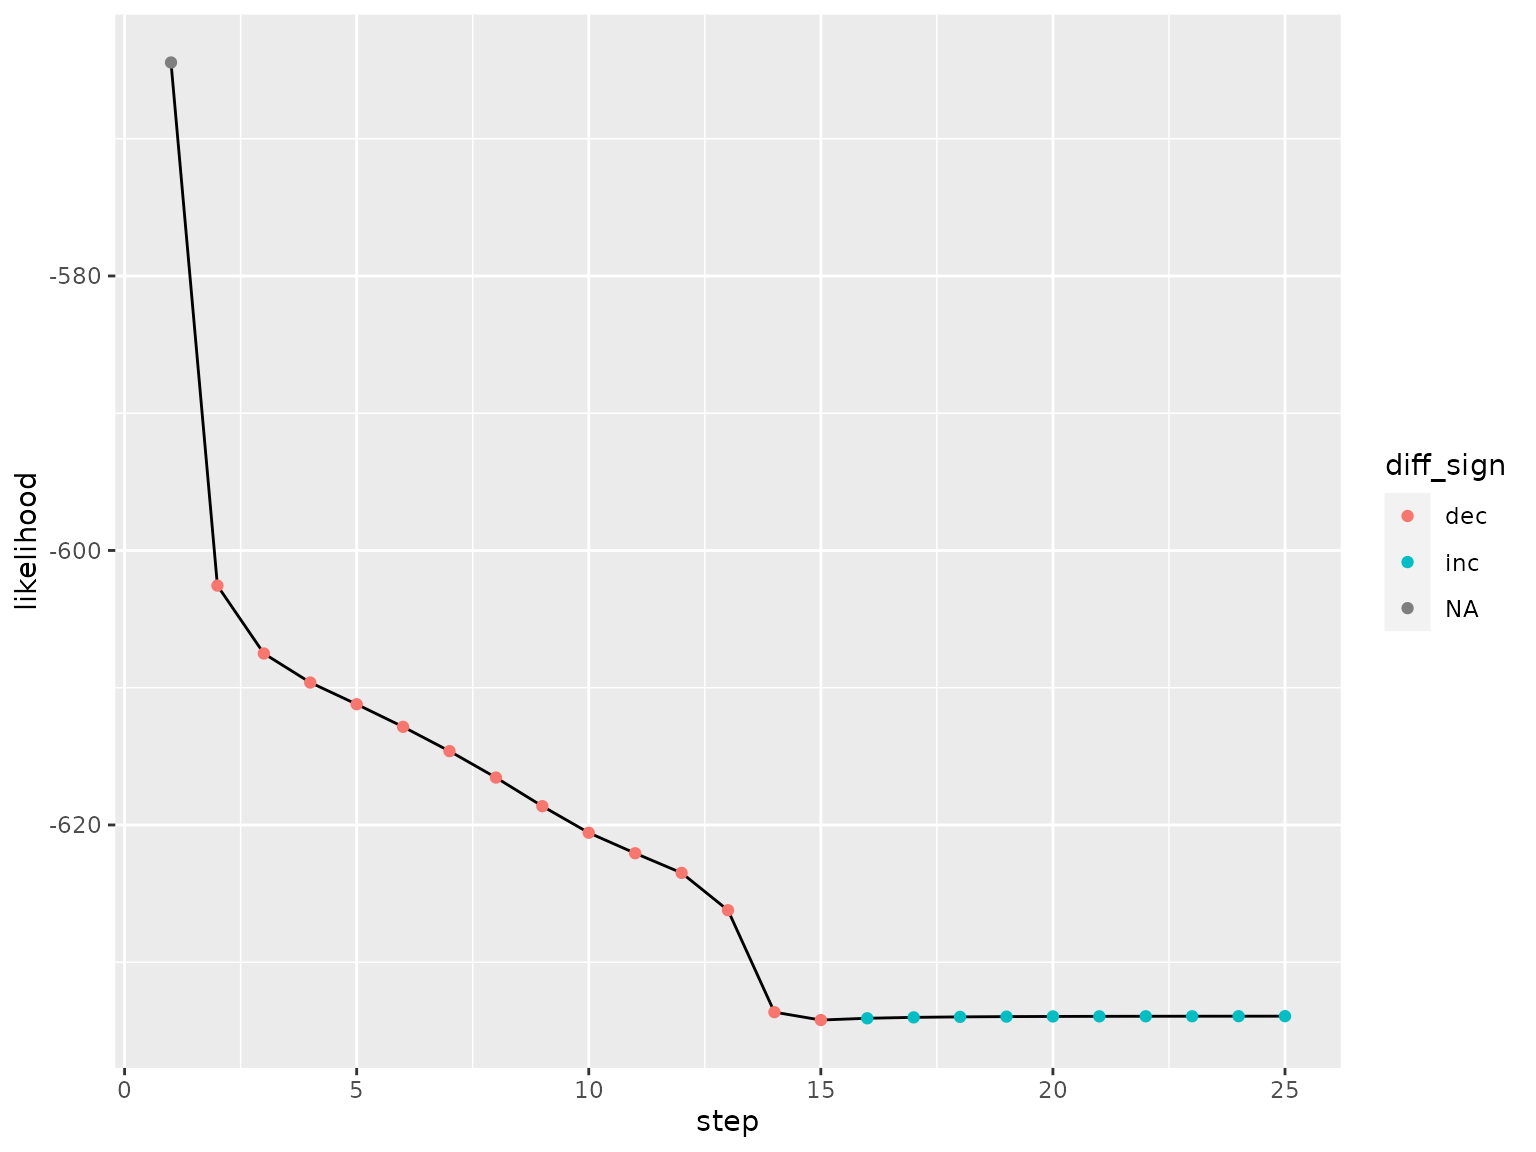
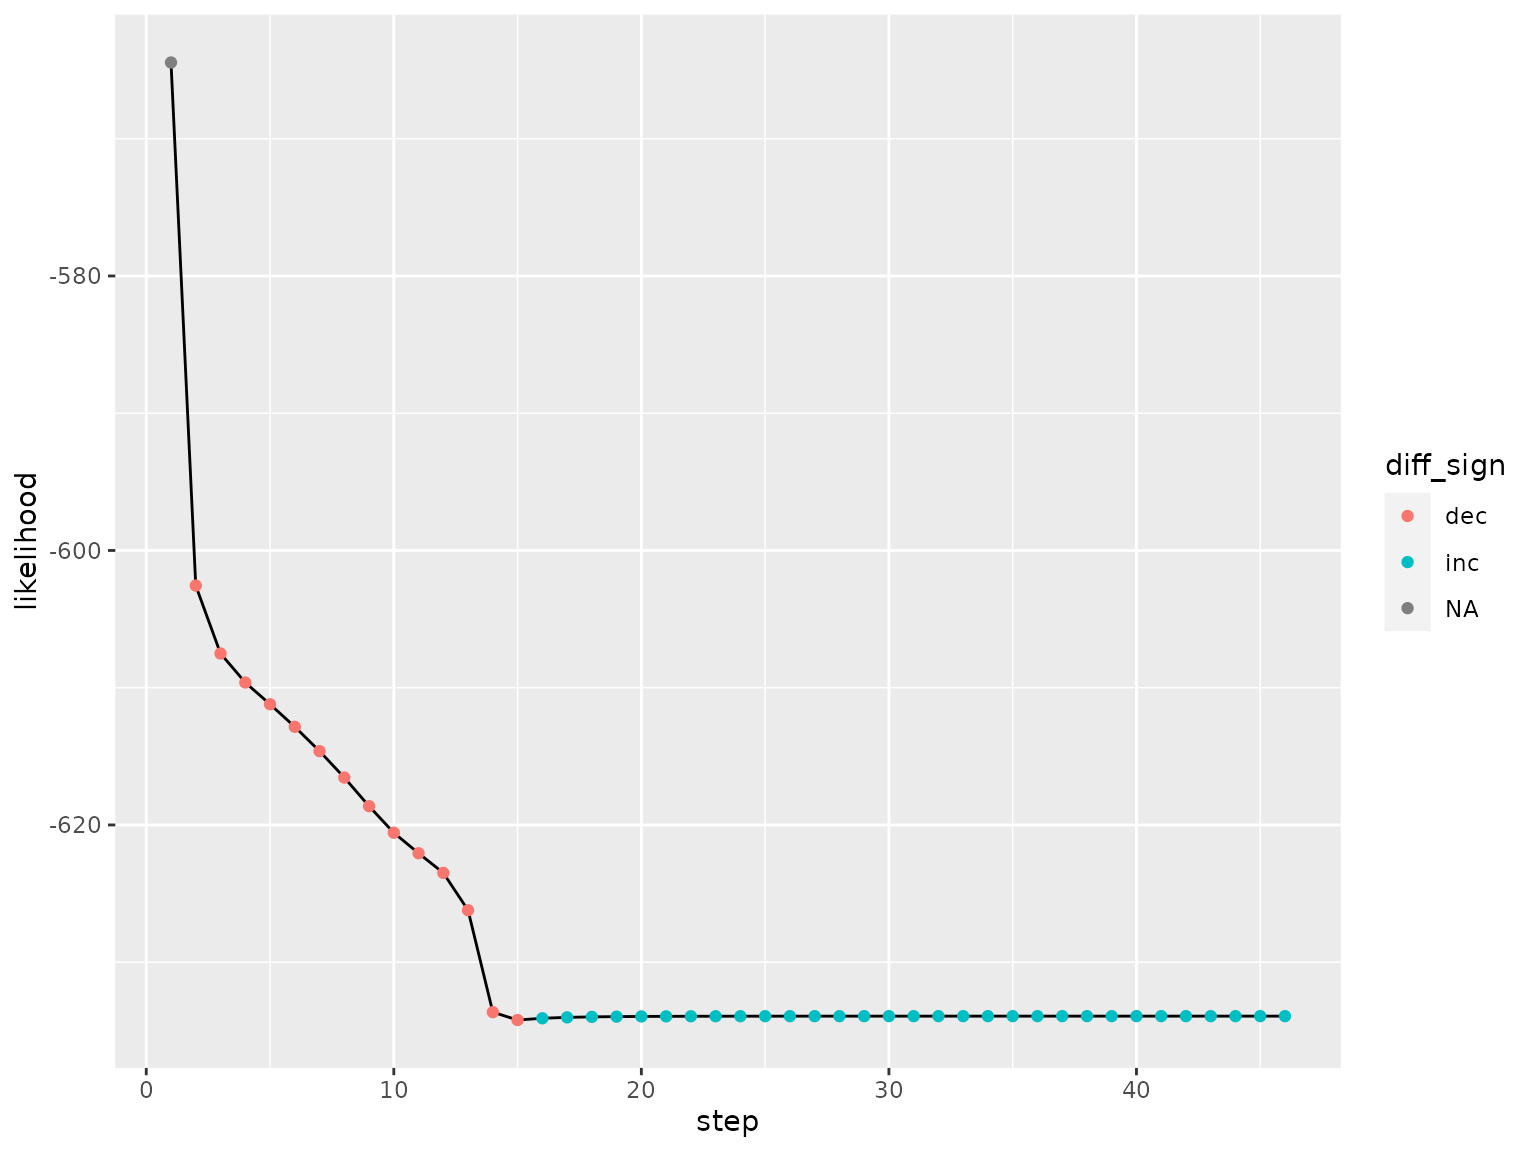
Deploying to gh-pages from @ ajmichaelucd/mic.sim@09627e6839fdf3ca706c89eb0b62f13c182a53ca 🚀

diff --git a/reference/EM_algorithm_safety_surv.html b/reference/EM_algorithm_safety_surv.html
@@ -1,5 +1,5 @@
 <!DOCTYPE html>
-<!-- Generated by pkgdown: do not edit by hand --><html lang="en"><head><meta http-equiv="Content-Type" content="text/html; charset=UTF-8"><meta charset="utf-8"><meta http-equiv="X-UA-Compatible" content="IE=edge"><meta name="viewport" content="width=device-width, initial-scale=1, shrink-to-fit=no"><meta name="description" content="fit_model_pi"><title>fit_model_pi — fit_model_pi • mic.sim</title><script src="../deps/jquery-3.6.0/jquery-3.6.0.min.js"></script><meta name="viewport" content="width=device-width, initial-scale=1, shrink-to-fit=no"><link href="../deps/bootstrap-5.3.1/bootstrap.min.css" rel="stylesheet"><script src="../deps/bootstrap-5.3.1/bootstrap.bundle.min.js"></script><!-- Font Awesome icons --><link rel="stylesheet" href="https://cdnjs.cloudflare.com/ajax/libs/font-awesome/5.12.1/css/all.min.css" integrity="sha256-mmgLkCYLUQbXn0B1SRqzHar6dCnv9oZFPEC1g1cwlkk=" crossorigin="anonymous"><link rel="stylesheet" href="https://cdnjs.cloudflare.com/ajax/libs/font-awesome/5.12.1/css/v4-shims.min.css" integrity="sha256-wZjR52fzng1pJHwx4aV2AO3yyTOXrcDW7jBpJtTwVxw=" crossorigin="anonymous"><!-- bootstrap-toc --><script src="https://cdn.jsdelivr.net/gh/afeld/bootstrap-toc@v1.0.1/dist/bootstrap-toc.min.js" integrity="sha256-4veVQbu7//Lk5TSmc7YV48MxtMy98e26cf5MrgZYnwo=" crossorigin="anonymous"></script><!-- headroom.js --><script src="https://cdnjs.cloudflare.com/ajax/libs/headroom/0.11.0/headroom.min.js" integrity="sha256-AsUX4SJE1+yuDu5+mAVzJbuYNPHj/WroHuZ8Ir/CkE0=" crossorigin="anonymous"></script><script src="https://cdnjs.cloudflare.com/ajax/libs/headroom/0.11.0/jQuery.headroom.min.js" integrity="sha256-ZX/yNShbjqsohH1k95liqY9Gd8uOiE1S4vZc+9KQ1K4=" crossorigin="anonymous"></script><!-- clipboard.js --><script src="https://cdnjs.cloudflare.com/ajax/libs/clipboard.js/2.0.6/clipboard.min.js" integrity="sha256-inc5kl9MA1hkeYUt+EC3BhlIgyp/2jDIyBLS6k3UxPI=" crossorigin="anonymous"></script><!-- search --><script src="https://cdnjs.cloudflare.com/ajax/libs/fuse.js/6.4.6/fuse.js" integrity="sha512-zv6Ywkjyktsohkbp9bb45V6tEMoWhzFzXis+LrMehmJZZSys19Yxf1dopHx7WzIKxr5tK2dVcYmaCk2uqdjF4A==" crossorigin="anonymous"></script><script src="https://cdnjs.cloudflare.com/ajax/libs/autocomplete.js/0.38.0/autocomplete.jquery.min.js" integrity="sha512-GU9ayf+66Xx2TmpxqJpliWbT5PiGYxpaG8rfnBEk1LL8l1KGkRShhngwdXK1UgqhAzWpZHSiYPc09/NwDQIGyg==" crossorigin="anonymous"></script><script src="https://cdnjs.cloudflare.com/ajax/libs/mark.js/8.11.1/mark.min.js" integrity="sha512-5CYOlHXGh6QpOFA/TeTylKLWfB3ftPsde7AnmhuitiTX4K5SqCLBeKro6sPS8ilsz1Q4NRx3v8Ko2IBiszzdww==" crossorigin="anonymous"></script><!-- pkgdown --><script src="../pkgdown.js"></script><meta property="og:title" content="fit_model_pi — fit_model_pi"><meta property="og:description" content="fit_model_pi"><!-- mathjax --><script src="https://cdnjs.cloudflare.com/ajax/libs/mathjax/2.7.5/MathJax.js" integrity="sha256-nvJJv9wWKEm88qvoQl9ekL2J+k/RWIsaSScxxlsrv8k=" crossorigin="anonymous"></script><script src="https://cdnjs.cloudflare.com/ajax/libs/mathjax/2.7.5/config/TeX-AMS-MML_HTMLorMML.js" integrity="sha256-84DKXVJXs0/F8OTMzX4UR909+jtl4G7SPypPavF+GfA=" crossorigin="anonymous"></script><!--[if lt IE 9]>
+<!-- Generated by pkgdown: do not edit by hand --><html lang="en"><head><meta http-equiv="Content-Type" content="text/html; charset=UTF-8"><meta charset="utf-8"><meta http-equiv="X-UA-Compatible" content="IE=edge"><meta name="viewport" content="width=device-width, initial-scale=1, shrink-to-fit=no"><meta name="description" content="Title"><title>Title — EM_algorithm_safety_surv • mic.sim</title><script src="../deps/jquery-3.6.0/jquery-3.6.0.min.js"></script><meta name="viewport" content="width=device-width, initial-scale=1, shrink-to-fit=no"><link href="../deps/bootstrap-5.3.1/bootstrap.min.css" rel="stylesheet"><script src="../deps/bootstrap-5.3.1/bootstrap.bundle.min.js"></script><!-- Font Awesome icons --><link rel="stylesheet" href="https://cdnjs.cloudflare.com/ajax/libs/font-awesome/5.12.1/css/all.min.css" integrity="sha256-mmgLkCYLUQbXn0B1SRqzHar6dCnv9oZFPEC1g1cwlkk=" crossorigin="anonymous"><link rel="stylesheet" href="https://cdnjs.cloudflare.com/ajax/libs/font-awesome/5.12.1/css/v4-shims.min.css" integrity="sha256-wZjR52fzng1pJHwx4aV2AO3yyTOXrcDW7jBpJtTwVxw=" crossorigin="anonymous"><!-- bootstrap-toc --><script src="https://cdn.jsdelivr.net/gh/afeld/bootstrap-toc@v1.0.1/dist/bootstrap-toc.min.js" integrity="sha256-4veVQbu7//Lk5TSmc7YV48MxtMy98e26cf5MrgZYnwo=" crossorigin="anonymous"></script><!-- headroom.js --><script src="https://cdnjs.cloudflare.com/ajax/libs/headroom/0.11.0/headroom.min.js" integrity="sha256-AsUX4SJE1+yuDu5+mAVzJbuYNPHj/WroHuZ8Ir/CkE0=" crossorigin="anonymous"></script><script src="https://cdnjs.cloudflare.com/ajax/libs/headroom/0.11.0/jQuery.headroom.min.js" integrity="sha256-ZX/yNShbjqsohH1k95liqY9Gd8uOiE1S4vZc+9KQ1K4=" crossorigin="anonymous"></script><!-- clipboard.js --><script src="https://cdnjs.cloudflare.com/ajax/libs/clipboard.js/2.0.6/clipboard.min.js" integrity="sha256-inc5kl9MA1hkeYUt+EC3BhlIgyp/2jDIyBLS6k3UxPI=" crossorigin="anonymous"></script><!-- search --><script src="https://cdnjs.cloudflare.com/ajax/libs/fuse.js/6.4.6/fuse.js" integrity="sha512-zv6Ywkjyktsohkbp9bb45V6tEMoWhzFzXis+LrMehmJZZSys19Yxf1dopHx7WzIKxr5tK2dVcYmaCk2uqdjF4A==" crossorigin="anonymous"></script><script src="https://cdnjs.cloudflare.com/ajax/libs/autocomplete.js/0.38.0/autocomplete.jquery.min.js" integrity="sha512-GU9ayf+66Xx2TmpxqJpliWbT5PiGYxpaG8rfnBEk1LL8l1KGkRShhngwdXK1UgqhAzWpZHSiYPc09/NwDQIGyg==" crossorigin="anonymous"></script><script src="https://cdnjs.cloudflare.com/ajax/libs/mark.js/8.11.1/mark.min.js" integrity="sha512-5CYOlHXGh6QpOFA/TeTylKLWfB3ftPsde7AnmhuitiTX4K5SqCLBeKro6sPS8ilsz1Q4NRx3v8Ko2IBiszzdww==" crossorigin="anonymous"></script><!-- pkgdown --><script src="../pkgdown.js"></script><meta property="og:title" content="Title — EM_algorithm_safety_surv"><meta property="og:description" content="Title"><!-- mathjax --><script src="https://cdnjs.cloudflare.com/ajax/libs/mathjax/2.7.5/MathJax.js" integrity="sha256-nvJJv9wWKEm88qvoQl9ekL2J+k/RWIsaSScxxlsrv8k=" crossorigin="anonymous"></script><script src="https://cdnjs.cloudflare.com/ajax/libs/mathjax/2.7.5/config/TeX-AMS-MML_HTMLorMML.js" integrity="sha256-84DKXVJXs0/F8OTMzX4UR909+jtl4G7SPypPavF+GfA=" crossorigin="anonymous"></script><!--[if lt IE 9]>
 <script src="https://oss.maxcdn.com/html5shiv/3.7.3/html5shiv.min.js"></script>
 <script src="https://oss.maxcdn.com/respond/1.4.2/respond.min.js"></script>
 <![endif]--></head><body>
@@ -43,22 +43,23 @@
 </nav><div class="container template-reference-topic">
 <div class="row">
   <main id="main" class="col-md-9"><div class="page-header">
-      <img src="" class="logo" alt=""><h1>fit_model_pi</h1>
-      <small class="dont-index">Source: <a href="https://github.com/ajmichaelucd/mic.sim/blob/HEAD/R/fit_model_pi.R" class="external-link"><code>R/fit_model_pi.R</code></a></small>
-      <div class="d-none name"><code>fit_model_pi.Rd</code></div>
+      <img src="" class="logo" alt=""><h1>Title</h1>
+      <small class="dont-index">Source: <a href="https://github.com/ajmichaelucd/mic.sim/blob/HEAD/R/EM_algorithm_safety_surv.R" class="external-link"><code>R/EM_algorithm_safety_surv.R</code></a></small>
+      <div class="d-none name"><code>EM_algorithm_safety_surv.Rd</code></div>
     </div>
 
     <div class="ref-description section level2">
-    <p>fit_model_pi</p>
+    <p>Title</p>
     </div>
 
     <div class="section level2">
     <h2 id="ref-usage">Usage<a class="anchor" aria-label="anchor" href="#ref-usage"></a></h2>
-    <div class="sourceCode"><pre class="sourceCode r"><code><span><span class="fu">fit_model_pi</span><span class="op">(</span></span>
-<span>  <span class="va">visible_data</span>,</span>
+    <div class="sourceCode"><pre class="sourceCode r"><code><span><span class="fu">EM_algorithm_safety_surv</span><span class="op">(</span></span>
+<span>  visible_data <span class="op">=</span> <span class="fu"><a href="prep_sim_data_for_em.html">prep_sim_data_for_em</a></span><span class="op">(</span><span class="op">)</span>,</span>
 <span>  mu_formula <span class="op">=</span> <span class="fu">Surv</span><span class="op">(</span>time <span class="op">=</span> <span class="va">left_bound</span>, time2 <span class="op">=</span> <span class="va">right_bound</span>, type <span class="op">=</span> <span class="st">"interval2"</span><span class="op">)</span> <span class="op">~</span></span>
-<span>    <span class="fu">pspline</span><span class="op">(</span><span class="va">t</span>, df <span class="op">=</span> <span class="fl">0</span>, caic <span class="op">=</span> <span class="cn">TRUE</span><span class="op">)</span>,</span>
+<span>    <span class="fu">pspline</span><span class="op">(</span><span class="va">t</span>, df <span class="op">=</span> <span class="fl">0</span>, calc <span class="op">=</span> <span class="cn">TRUE</span><span class="op">)</span>,</span>
 <span>  pi_formula <span class="op">=</span> <span class="va">c</span> <span class="op">==</span> <span class="st">"2"</span> <span class="op">~</span> <span class="fu">s</span><span class="op">(</span><span class="va">t</span><span class="op">)</span>,</span>
+<span>  censored_side <span class="op">=</span> <span class="st">"RC"</span>,</span>
 <span>  max_it <span class="op">=</span> <span class="fl">3000</span>,</span>
 <span>  ncomp <span class="op">=</span> <span class="fl">2</span>,</span>
 <span>  tol_ll <span class="op">=</span> <span class="fl">1e-06</span>,</span>
@@ -71,15 +72,14 @@
 <span>  verbose <span class="op">=</span> <span class="fl">3</span>,</span>
 <span>  model_coefficient_tolerance <span class="op">=</span> <span class="fl">1e-05</span>,</span>
 <span>  maxiter_survreg <span class="op">=</span> <span class="fl">30</span>,</span>
-<span>  initial_weighting <span class="op">=</span> <span class="fl">8</span>,</span>
-<span>  sd_initial <span class="op">=</span> <span class="fl">0.25</span>,</span>
-<span>  stop_on_likelihood_drop <span class="op">=</span> <span class="cn">TRUE</span></span>
+<span>  stop_on_likelihood_drop <span class="op">=</span> <span class="cn">TRUE</span>,</span>
+<span>  extra_row <span class="op">=</span> <span class="cn">FALSE</span></span>
 <span><span class="op">)</span></span></code></pre></div>
     </div>
 
     <div class="section level2">
     <h2 id="arguments">Arguments<a class="anchor" aria-label="anchor" href="#arguments"></a></h2>
-    <dl><dt>initial_weighting</dt>
+    <dl><dt>extra_row</dt>
 <dd></dd>
 
 </dl></div>

diff --git a/articles/two_comp_mgcv_demo.html b/articles/two_comp_mgcv_demo.html
@@ -127,7 +127,7 @@ gam.fit3(x = X, y = y, sp = L %*% lsp + lsp0, Eb = Eb, UrS = UrS</p>
 <code class="sourceCode R"><span><span class="va">output</span> <span class="op">=</span> <span class="fu"><a href="../reference/EM_algorithm_mgcv.html">EM_algorithm_mgcv</a></span><span class="op">(</span><span class="va">example_data</span>,</span>
 <span>                  mu_formula <span class="op">=</span> <span class="va">yi</span> <span class="op">~</span> <span class="fu">s</span><span class="op">(</span><span class="va">t</span><span class="op">)</span>,</span>
 <span>                  pi_formula <span class="op">=</span> <span class="va">c</span> <span class="op">==</span> <span class="st">"2"</span> <span class="op">~</span> <span class="fu">s</span><span class="op">(</span><span class="va">t</span><span class="op">)</span>,</span>
-<span>                  max_it <span class="op">=</span> <span class="fl">25</span>,</span>
+<span>                  max_it <span class="op">=</span> <span class="fl">100</span>,</span>
 <span>                  ncomp <span class="op">=</span> <span class="fl">2</span>,</span>
 <span>                  tol_ll <span class="op">=</span> <span class="fl">1e-6</span>,</span>
 <span>                  browse_at_end <span class="op">=</span> <span class="cn">FALSE</span>,</span>
@@ -192,10 +192,32 @@ gam.fit3(x = X, y = y, sp = L %*% lsp + lsp0, Eb = Eb, UrS = UrS</p>
 <span><span class="co">#&gt; starting iteration number 22</span></span>
 <span><span class="co">#&gt; starting iteration number 23</span></span>
 <span><span class="co">#&gt; starting iteration number 24</span></span>
-<span><span class="co">#&gt; starting iteration number 25</span></span></code></pre></div>
+<span><span class="co">#&gt; starting iteration number 25</span></span>
+<span><span class="co">#&gt; starting iteration number 26</span></span>
+<span><span class="co">#&gt; starting iteration number 27</span></span>
+<span><span class="co">#&gt; starting iteration number 28</span></span>
+<span><span class="co">#&gt; starting iteration number 29</span></span>
+<span><span class="co">#&gt; starting iteration number 30</span></span>
+<span><span class="co">#&gt; starting iteration number 31</span></span>
+<span><span class="co">#&gt; starting iteration number 32</span></span>
+<span><span class="co">#&gt; starting iteration number 33</span></span>
+<span><span class="co">#&gt; starting iteration number 34</span></span>
+<span><span class="co">#&gt; starting iteration number 35</span></span>
+<span><span class="co">#&gt; starting iteration number 36</span></span>
+<span><span class="co">#&gt; starting iteration number 37</span></span>
+<span><span class="co">#&gt; starting iteration number 38</span></span>
+<span><span class="co">#&gt; starting iteration number 39</span></span>
+<span><span class="co">#&gt; starting iteration number 40</span></span>
+<span><span class="co">#&gt; starting iteration number 41</span></span>
+<span><span class="co">#&gt; starting iteration number 42</span></span>
+<span><span class="co">#&gt; starting iteration number 43</span></span>
+<span><span class="co">#&gt; starting iteration number 44</span></span>
+<span><span class="co">#&gt; starting iteration number 45</span></span>
+<span><span class="co">#&gt; starting iteration number 46</span></span>
+<span><span class="co">#&gt; Stopped on combined LL and parameters</span></span></code></pre></div>
 <p>And we plot the log likelihood of each step, the EM algorithm should
-be monotonically increasing but we see drops early, then also some
-later.</p>
+be monotonically increasing but we see drops early, and in some other
+instances also some later.</p>
 <p><img src="two_comp_mgcv_demo_files/figure-html/unnamed-chunk-4-1.png" width="768"></p>
 <p>So now I thought I’d remove the splines and see if the rest of the
 algorithm is working as intended. First, I’ll try to fit it all without
@@ -244,12 +266,10 @@ Now let’s try to add them back in, starting with mu</p>
 <span><span class="co">#&gt; [1] 24</span></span>
 <span><span class="co">#&gt; [1] 25</span></span></code></pre>
 <p><img src="two_comp_mgcv_demo_files/figure-html/unnamed-chunk-7-1.png" width="768"></p>
-<p>Not what we’d like, now we got warnings reading: Fitting terminated
-with step failure - check results carefully And we definitely have
-decreases in likelihood through the 25 iterations</p>
+<p>We definitely have decreases in likelihood through the 25 iterations,
+also its pretty much the same as the initial run</p>
 <p><img src="two_comp_mgcv_demo_files/figure-html/unnamed-chunk-8-1.png" width="768"></p>
-<p>And the plot doesn’t look too good either, Component 2 should be the
-upper component and here it is lower than component 1</p>
+<p>Here the standard deviation for component 2 is too small</p>
 <p>Next we’ll do nonlinear trends in pi only</p>
 <p><img src="two_comp_mgcv_demo_files/figure-html/unnamed-chunk-9-1.png" width="768"></p>
 <p>No decreases in likelihood, that’s a good sign</p>

diff --git a/reference/fit_model_safety_pi.html b/reference/fit_model_safety_pi.html
@@ -56,9 +56,9 @@
     <h2 id="ref-usage">Usage<a class="anchor" aria-label="anchor" href="#ref-usage"></a></h2>
     <div class="sourceCode"><pre class="sourceCode r"><code><span><span class="fu">fit_model_safety_pi</span><span class="op">(</span></span>
 <span>  visible_data <span class="op">=</span> <span class="fu"><a href="prep_sim_data_for_em.html">prep_sim_data_for_em</a></span><span class="op">(</span><span class="op">)</span>,</span>
-<span>  formula <span class="op">=</span> <span class="fu">Surv</span><span class="op">(</span>time <span class="op">=</span> <span class="va">left_bound</span>, time2 <span class="op">=</span> <span class="va">right_bound</span>, type <span class="op">=</span> <span class="st">"interval2"</span><span class="op">)</span> <span class="op">~</span> <span class="fu">pspline</span><span class="op">(</span><span class="va">t</span>,</span>
-<span>    df <span class="op">=</span> <span class="fl">0</span>, calc <span class="op">=</span> <span class="cn">TRUE</span><span class="op">)</span>,</span>
-<span>  formula2 <span class="op">=</span> <span class="va">c</span> <span class="op">==</span> <span class="st">"2"</span> <span class="op">~</span> <span class="fu">s</span><span class="op">(</span><span class="va">t</span><span class="op">)</span>,</span>
+<span>  mu_formula <span class="op">=</span> <span class="fu">Surv</span><span class="op">(</span>time <span class="op">=</span> <span class="va">left_bound</span>, time2 <span class="op">=</span> <span class="va">right_bound</span>, type <span class="op">=</span> <span class="st">"interval2"</span><span class="op">)</span> <span class="op">~</span></span>
+<span>    <span class="fu">pspline</span><span class="op">(</span><span class="va">t</span>, df <span class="op">=</span> <span class="fl">0</span>, calc <span class="op">=</span> <span class="cn">TRUE</span><span class="op">)</span>,</span>
+<span>  pi_formula <span class="op">=</span> <span class="va">c</span> <span class="op">==</span> <span class="st">"2"</span> <span class="op">~</span> <span class="fu">s</span><span class="op">(</span><span class="va">t</span><span class="op">)</span>,</span>
 <span>  censored_side <span class="op">=</span> <span class="st">"RC"</span>,</span>
 <span>  max_it <span class="op">=</span> <span class="fl">3000</span>,</span>
 <span>  ncomp <span class="op">=</span> <span class="fl">2</span>,</span>
@@ -66,6 +66,8 @@
 <span>  browse_at_end <span class="op">=</span> <span class="cn">FALSE</span>,</span>
 <span>  browse_each_step <span class="op">=</span> <span class="cn">FALSE</span>,</span>
 <span>  plot_visuals <span class="op">=</span> <span class="cn">FALSE</span>,</span>
+<span>  prior_step_plot <span class="op">=</span> <span class="cn">FALSE</span>,</span>
+<span>  pause_on_likelihood_drop <span class="op">=</span> <span class="cn">TRUE</span>,</span>
 <span>  pi_link <span class="op">=</span> <span class="st">"logit"</span>,</span>
 <span>  verbose <span class="op">=</span> <span class="fl">3</span>,</span>
 <span>  model_coefficient_tolerance <span class="op">=</span> <span class="fl">1e-05</span>,</span>

diff --git a/reference/EM_algorithm_surv.html b/reference/EM_algorithm_surv.html
@@ -56,7 +56,8 @@
     <h2 id="ref-usage">Usage<a class="anchor" aria-label="anchor" href="#ref-usage"></a></h2>
     <div class="sourceCode"><pre class="sourceCode r"><code><span><span class="fu">EM_algorithm_surv</span><span class="op">(</span></span>
 <span>  <span class="va">visible_data</span>,</span>
-<span>  mu_formula <span class="op">=</span> <span class="va">yi</span> <span class="op">~</span> <span class="fu">s</span><span class="op">(</span><span class="va">t</span><span class="op">)</span>,</span>
+<span>  mu_formula <span class="op">=</span> <span class="fu">Surv</span><span class="op">(</span>time <span class="op">=</span> <span class="va">left_bound</span>, time2 <span class="op">=</span> <span class="va">right_bound</span>, type <span class="op">=</span> <span class="st">"interval2"</span><span class="op">)</span> <span class="op">~</span></span>
+<span>    <span class="fu">pspline</span><span class="op">(</span><span class="va">t</span>, df <span class="op">=</span> <span class="fl">0</span>, caic <span class="op">=</span> <span class="cn">TRUE</span><span class="op">)</span>,</span>
 <span>  pi_formula <span class="op">=</span> <span class="va">c</span> <span class="op">==</span> <span class="st">"2"</span> <span class="op">~</span> <span class="fu">s</span><span class="op">(</span><span class="va">t</span><span class="op">)</span>,</span>
 <span>  max_it <span class="op">=</span> <span class="fl">3000</span>,</span>
 <span>  ncomp <span class="op">=</span> <span class="fl">2</span>,</span>
@@ -69,9 +70,10 @@
 <span>  pi_link <span class="op">=</span> <span class="st">"logit"</span>,</span>
 <span>  verbose <span class="op">=</span> <span class="fl">3</span>,</span>
 <span>  model_coefficient_tolerance <span class="op">=</span> <span class="fl">1e-05</span>,</span>
+<span>  maxiter_survreg <span class="op">=</span> <span class="fl">30</span>,</span>
 <span>  initial_weighting <span class="op">=</span> <span class="fl">8</span>,</span>
-<span>  sd_initial <span class="op">=</span> <span class="fl">0.25</span>,</span>
-<span>  maxiter_survreg <span class="op">=</span> <span class="fl">30</span></span>
+<span>  sd_initial <span class="op">=</span> <span class="fl">0.2</span>,</span>
+<span>  stop_on_likelihood_drop <span class="op">=</span> <span class="cn">TRUE</span></span>
 <span><span class="op">)</span></span></code></pre></div>
     </div>
 

diff --git a/reference/index.html b/reference/index.html
@@ -69,6 +69,11 @@
         <dd>EM_algorithm_safety_mgcv</dd>
       </dl><dl><dt>
           
+          <code><a href="EM_algorithm_safety_surv.html">EM_algorithm_safety_surv()</a></code> 
+        </dt>
+        <dd>Title</dd>
+      </dl><dl><dt>
+          
           <code><a href="EM_algorithm_surv.html">EM_algorithm_surv()</a></code> 
         </dt>
         <dd>Title</dd>
